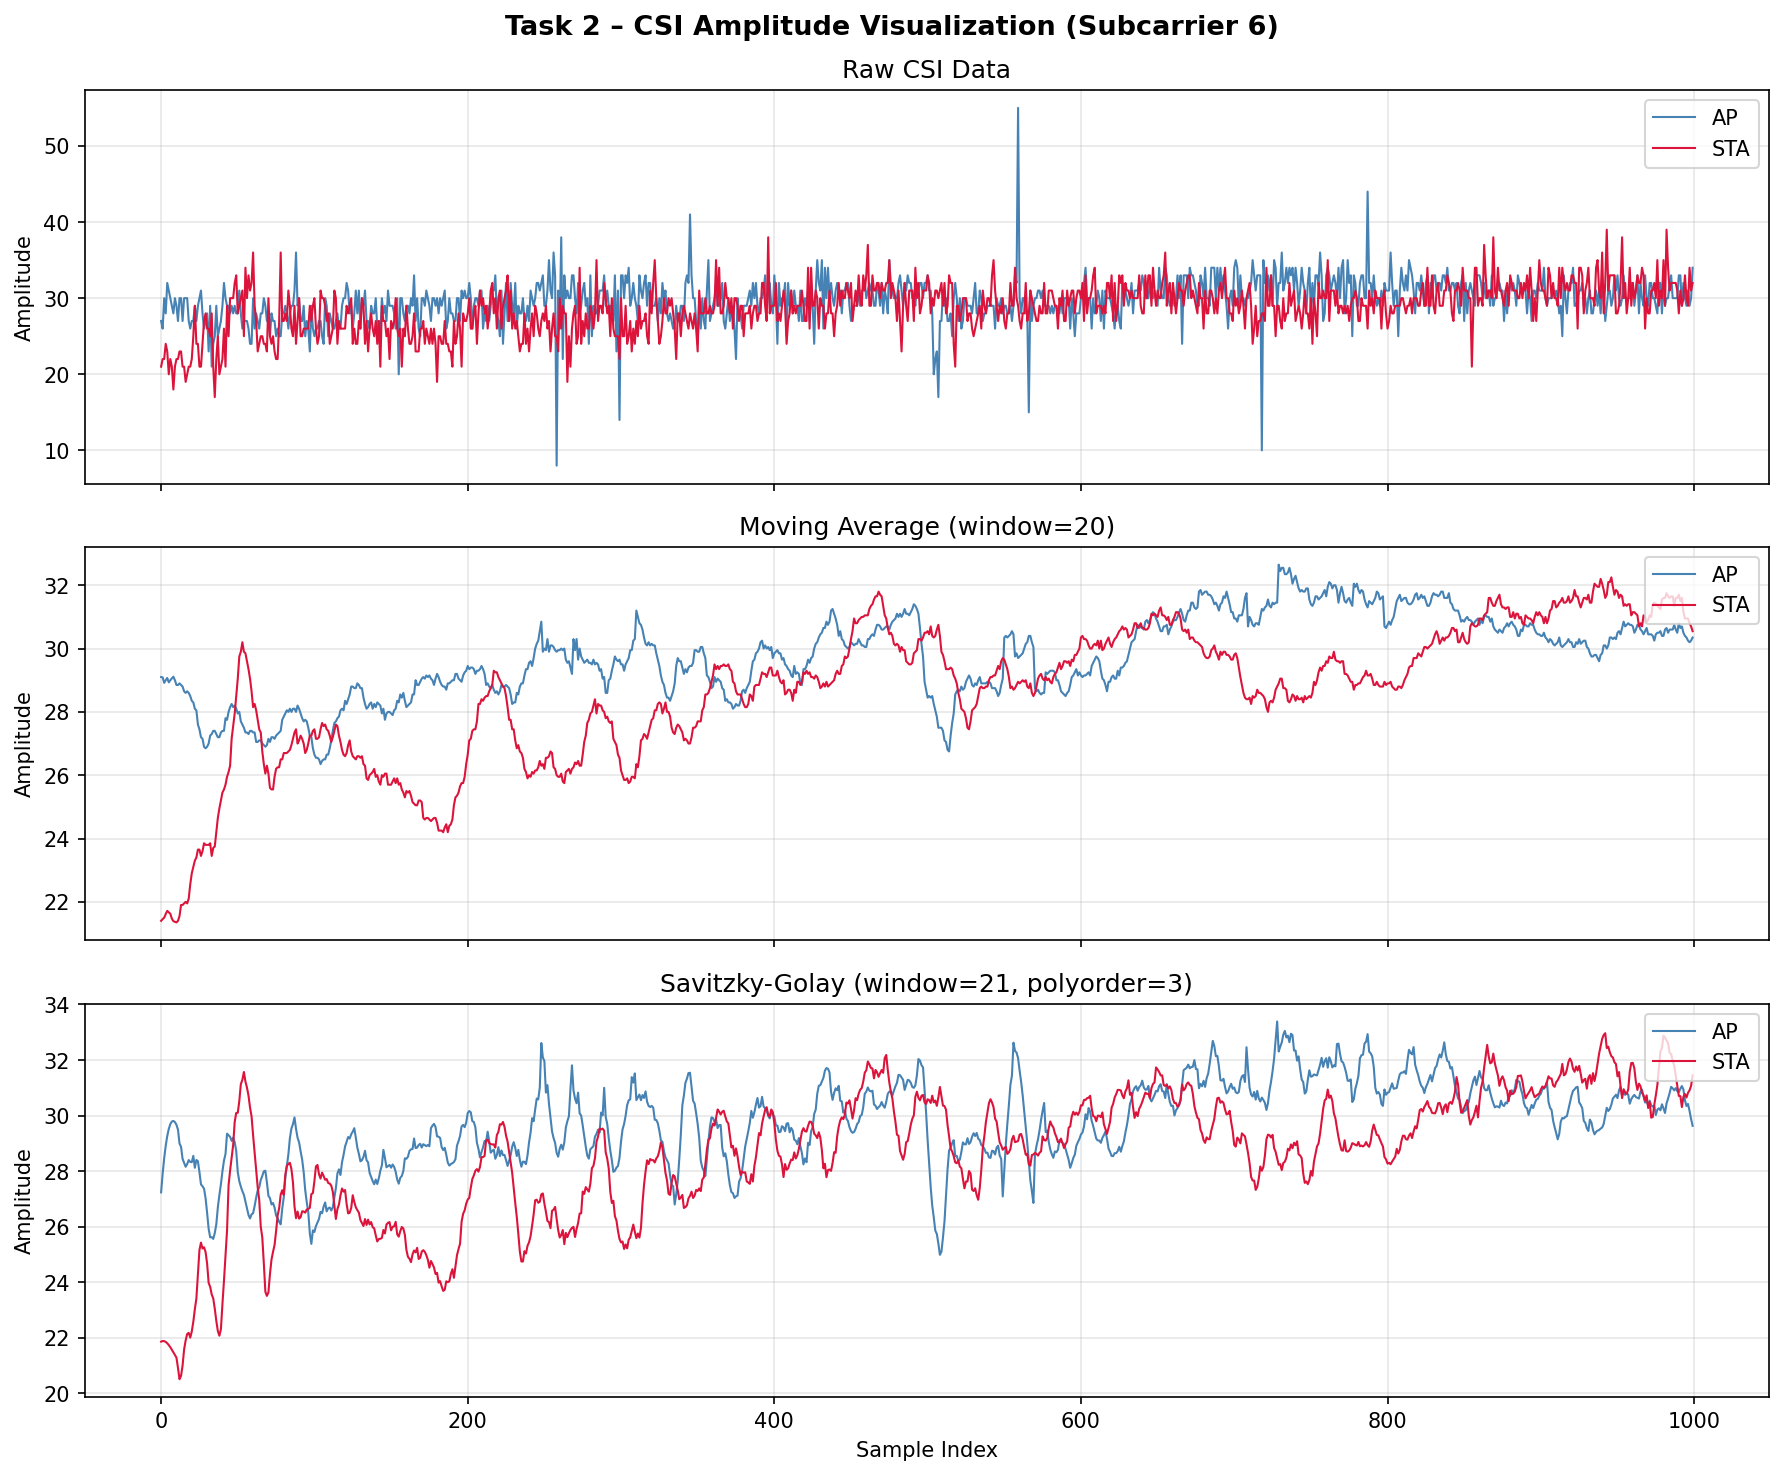
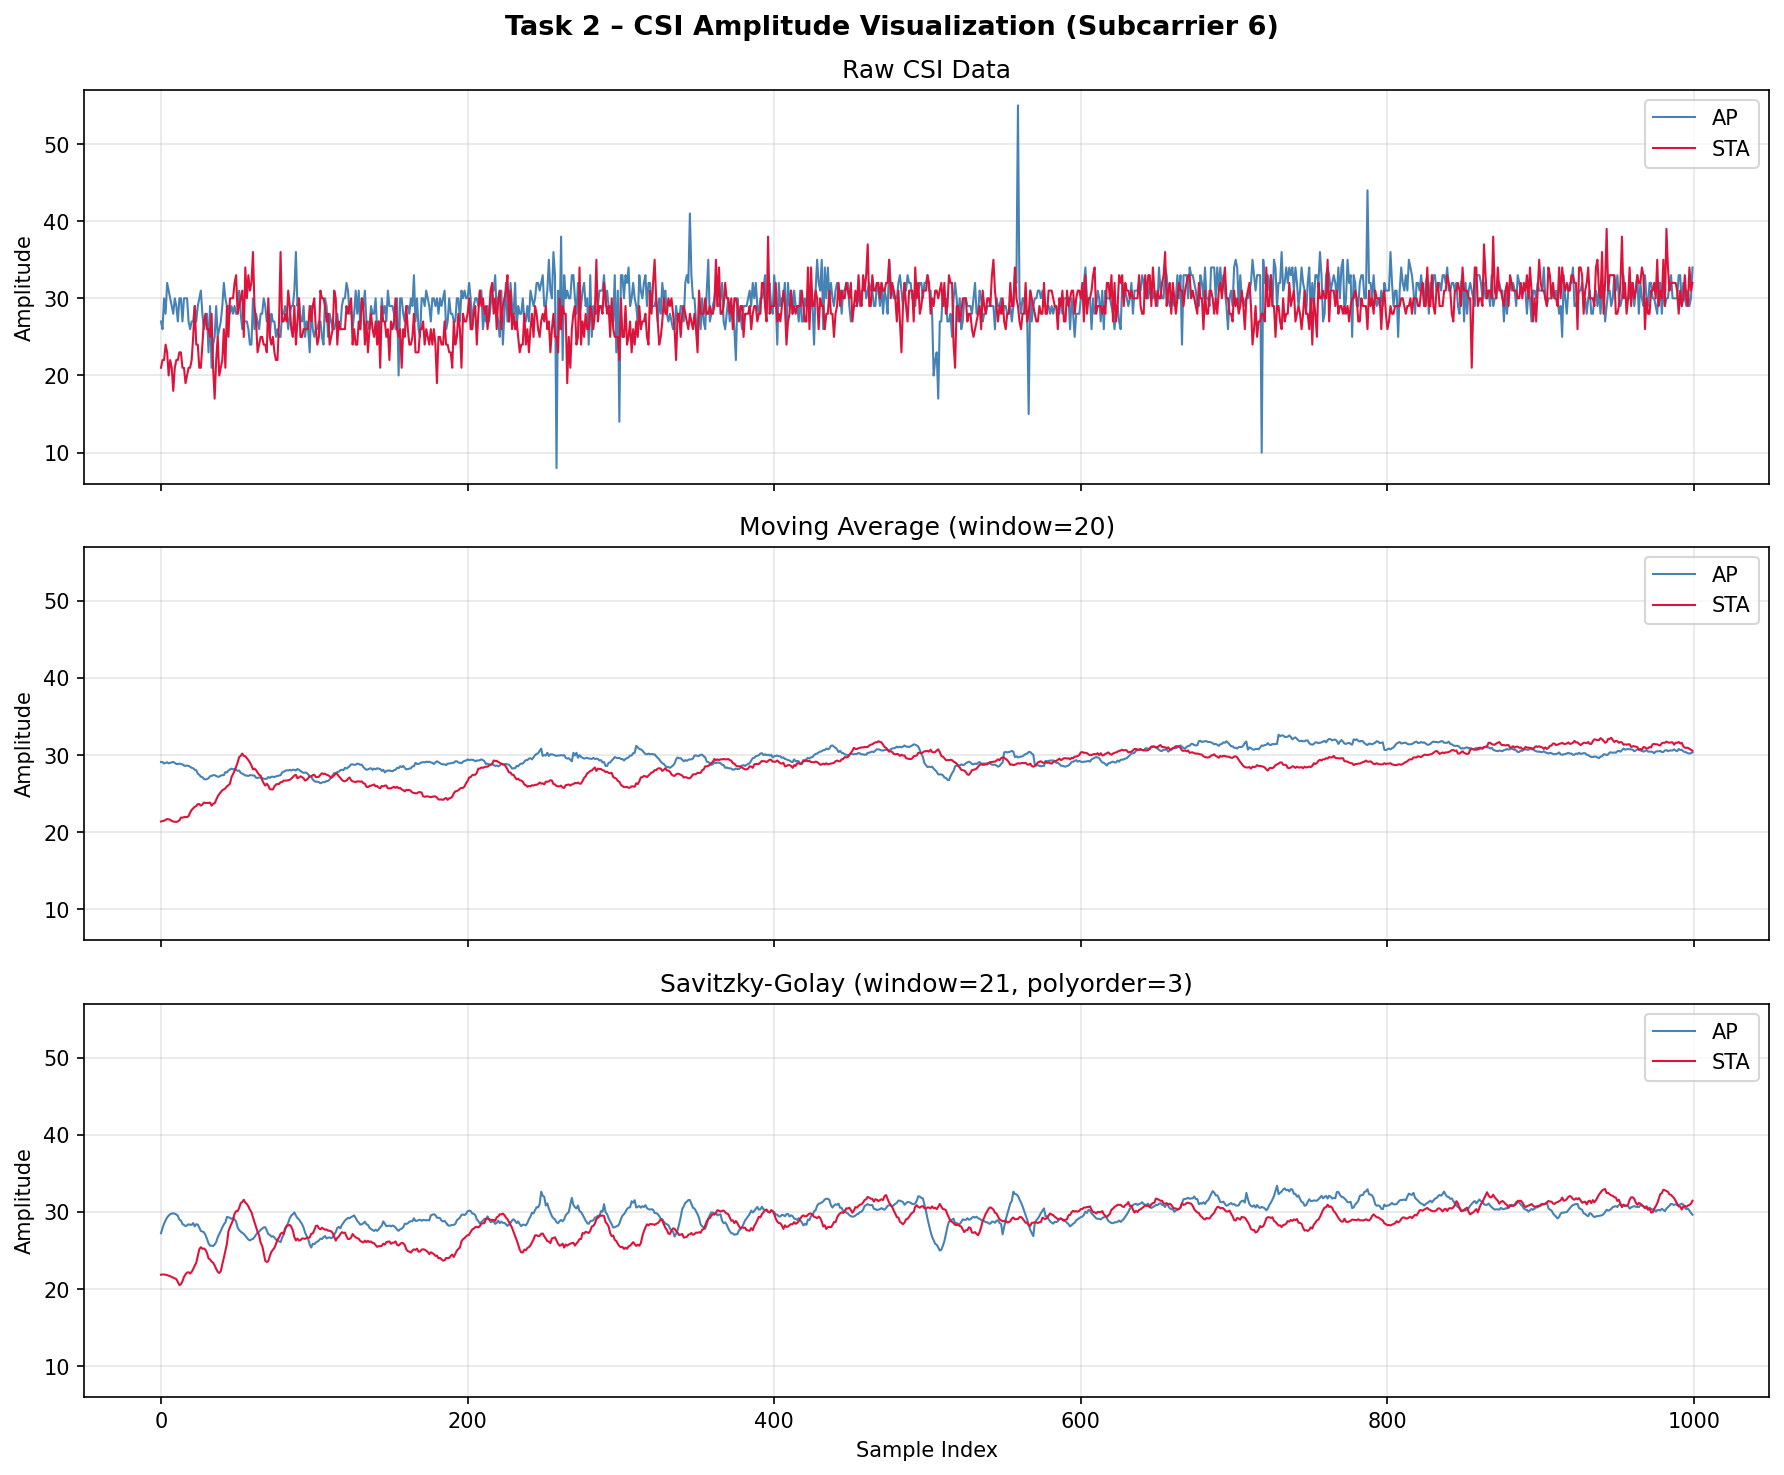
Changed task2 visualization y-axis

diff --git a/task2.py b/task2.py
@@ -39,6 +39,9 @@ samples = np.arange(0, 1000)
 fig, subplots = plt.subplots(3, 1, figsize=(12, 10), sharex=True)
 fig.suptitle(f'Task 2 – CSI Amplitude Visualization (Subcarrier {SUBCARRIER})', fontsize=13, fontweight='bold')
 
+y_min = min(apRaw[0:1000].min(), staRaw[0:1000].min())
+y_max = max(apRaw[0:1000].max(), staRaw[0:1000].max())
+
 # Subplot 1 - Raw
 subplots[0].plot(samples, apRaw[0:1000],  color='steelblue', linewidth=1.0, label='AP')
 subplots[0].plot(samples, staRaw[0:1000], color='crimson',   linewidth=1.0, label='STA')
@@ -46,6 +49,7 @@ subplots[0].set_title('Raw CSI Data')
 subplots[0].set_ylabel('Amplitude')
 subplots[0].legend(loc='upper right')
 subplots[0].grid(True, alpha=0.3)
+subplots[0].set_ylim(y_min - 2, y_max + 2)
 
 # Subplot 2 - Moving Average
 subplots[1].plot(samples, apMA[0:1000],  color='steelblue', linewidth=1.0, label='AP')
@@ -54,6 +58,7 @@ subplots[1].set_title(f'Moving Average (window={MA_WINDOW})')
 subplots[1].set_ylabel('Amplitude')
 subplots[1].legend(loc='upper right')
 subplots[1].grid(True, alpha=0.3)
+subplots[1].set_ylim(y_min - 2, y_max + 2)
 
 # Subplot 3 - Savitzky-Golay
 subplots[2].plot(samples, apSG[0:1000],  color='steelblue', linewidth=1.0, label='AP')
@@ -63,6 +68,7 @@ subplots[2].set_ylabel('Amplitude')
 subplots[2].legend(loc='upper right')
 subplots[2].grid(True, alpha=0.3)
 subplots[2].set_xlabel('Sample Index')
+subplots[2].set_ylim(y_min - 2, y_max + 2)
 
 plt.tight_layout()
 plt.savefig('task2-csi.png', dpi=150, bbox_inches='tight')